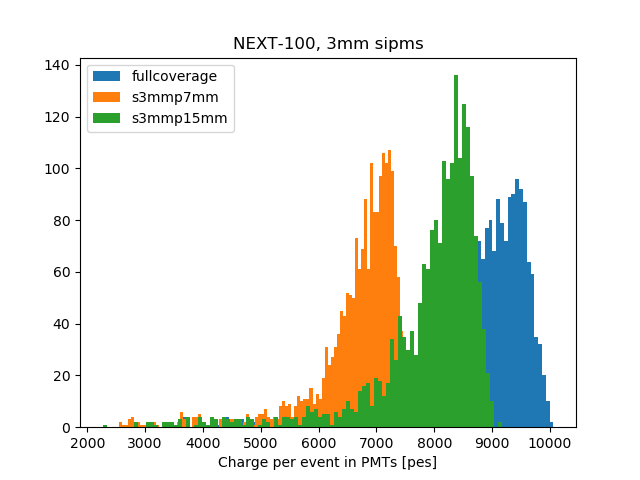
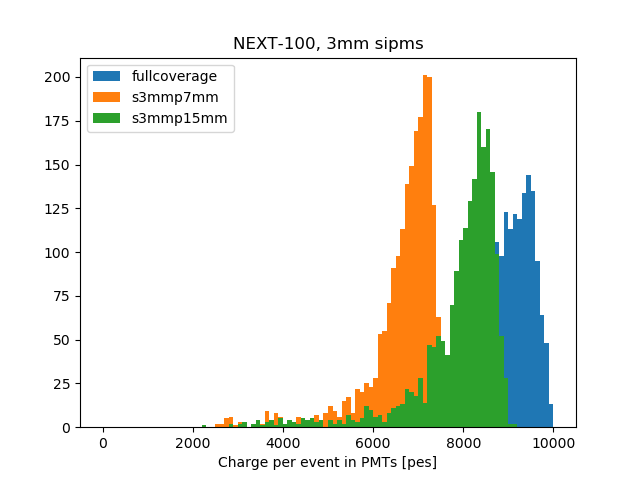
fixed range

diff --git a/sipmstudy_distr.py b/sipmstudy_distr.py
@@ -78,8 +78,8 @@ for mc in mcs:
     mc['pmts'] = pmts
     
 if event_type == 'kr':
-    sipm_range = (0, 85000)
-    pmt_range = (0, 85000)
+    sipm_range = (0, 350000)
+    pmt_range = (0, 10000)
 else:
     sipm_range = (0, 5000)
     pmt_range = (0, 100000)
@@ -102,7 +102,7 @@ for mc in mcs:
     plt.close()
     
 for mc in mcs:
-    plt.hist(mc['sipms'].charge, label=mc['dir'], bins=100)
+    plt.hist(mc['sipms'].charge, label=mc['dir'], bins=100, range=sipm_range)
 plt.xlabel("Charge per event in SiPMs [pes]")
 plt.title("NEXT-100, 3mm sipms")
 plt.legend()
@@ -110,7 +110,7 @@ plt.savefig(outdir+'sipm_energy_distr_comp.png')
 plt.close()
 
 for mc in mcs:
-    plt.hist(mc['pmts'].charge, label=mc['dir'], bins=100)
+    plt.hist(mc['pmts'].charge, label=mc['dir'], bins=100, range=pmt_range)
 plt.xlabel("Charge per event in PMTs [pes]")
 plt.title("NEXT-100, 3mm sipms")
 plt.legend()
